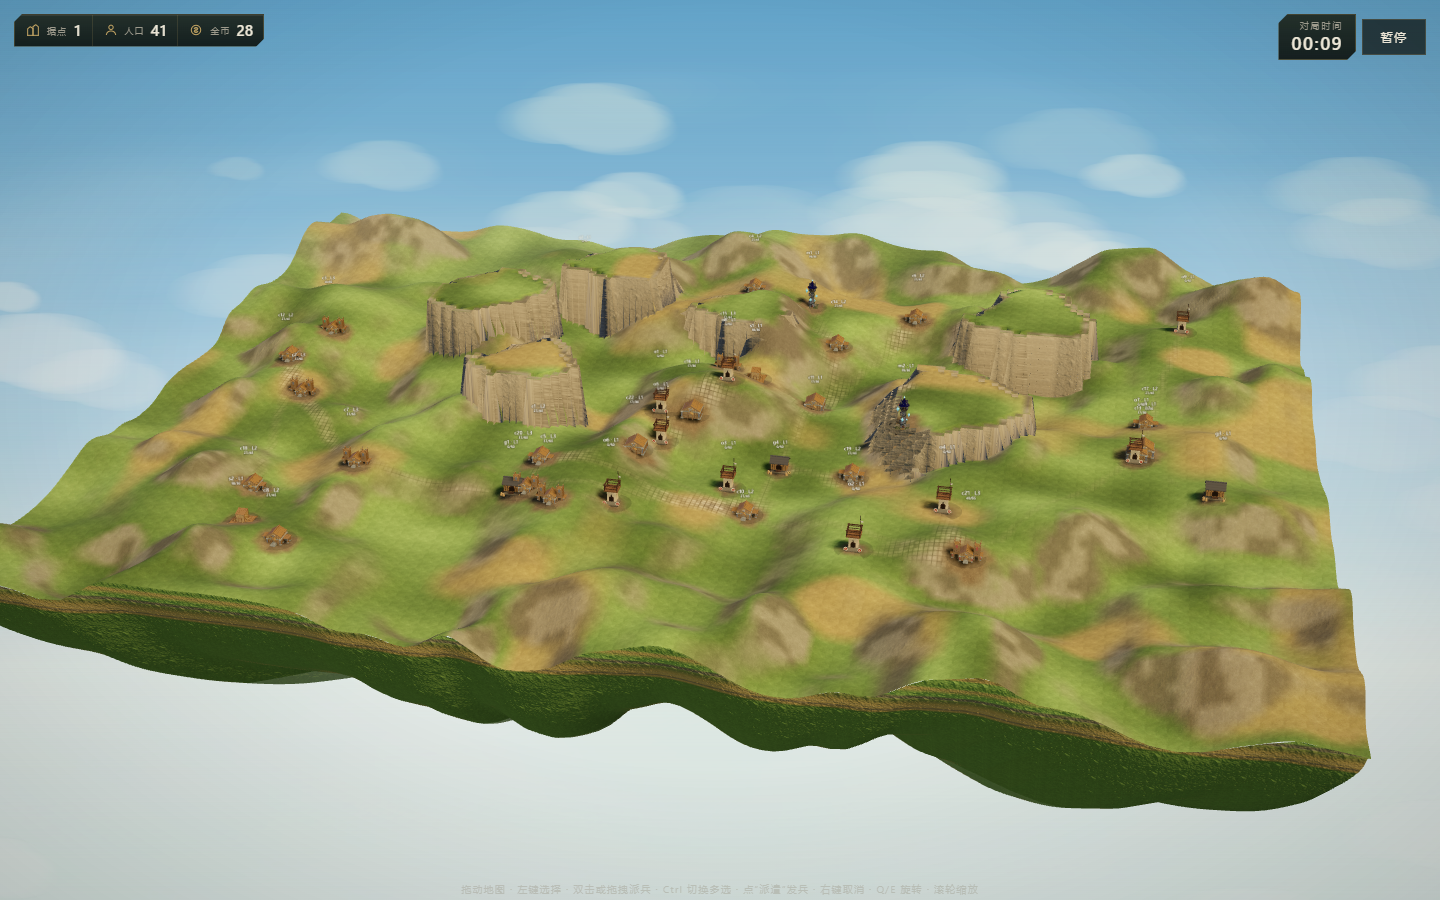
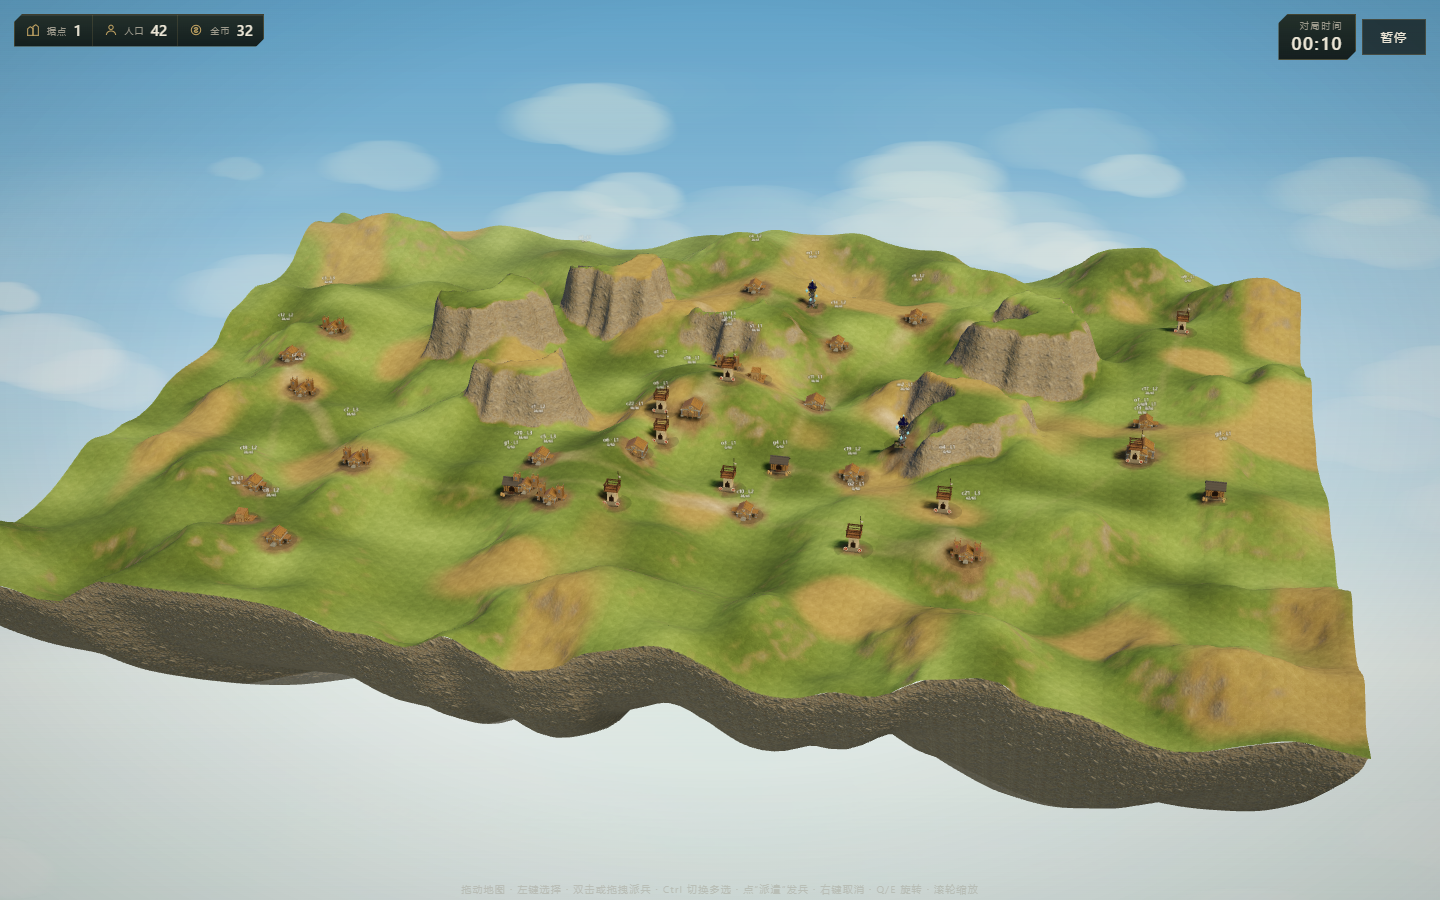
升级到 0.2.3

diff --git a/apps/client/src/app.ts b/apps/client/src/app.ts
@@ -52,7 +52,7 @@ const TEMPLATE = `
       <button class="btn" id="btn-editor">地图编辑器</button>
       <button class="btn" id="btn-settings">设置</button>
       <button class="btn ghost" id="btn-exit">退出</button>
-      <div class="menu-foot" id="menu-version">v0.2.2</div>
+      <div class="menu-foot" id="menu-version">v0.2.3</div>
     </div>
   </div>
 </section>

diff --git a/docs/Marchlands-开发指南.md b/docs/Marchlands-开发指南.md
@@ -1,8 +1,8 @@
 # Marchlands 开发指南
 
-**版本** v0.2.2  
+**版本** v0.2.3  
 **日期** 2026-11-01  
-**状态** M1 已完成，0.2.2 已发布；当前功能与构建方式见根目录 README  
+**状态** M1 已完成，0.2.3 已发布；当前功能与构建方式见根目录 README  
 **机制扩展** 粮草与临时驻兵点（ADR 0002）；行军改道与兵团粮草（ADR 0003）<br>
 **适用对象** 参与本项目的 Agent 与人类开发者
 
@@ -17,7 +17,7 @@
 2. **不复制原作资产与关卡。** .work/original 只读，用于理解规则和节奏；不把原作 PNG、OGG、文本、坐标或节点直接放进项目。
 3. **模拟核心保持纯净。** packages/sim 不得 import Cocos、DOM、Node API；不得使用 Math.random、Date.now；所有随机来自种子。
 
-**当前下一步** 维护 0.2.2 发布版；后续范围见 README 的已知限制。
+**当前下一步** 维护 0.2.3 发布版；后续范围见 README 的已知限制。
 
 如果任务超出“做与不做”清单，先停下，向用户确认，不要自行扩张。
 
@@ -965,3 +965,4 @@ pnpm test:e2e
 - [x] M1.8 验收：0.1.0 Windows 客户端发布
 - [x] 0.2.0 地基系统与地形渲染迭代
 - [x] 0.2.2 复杂地形落点、性能与编辑器可达性
+- [x] 0.2.3 地基连续面、坡度通行与地形编辑性能
